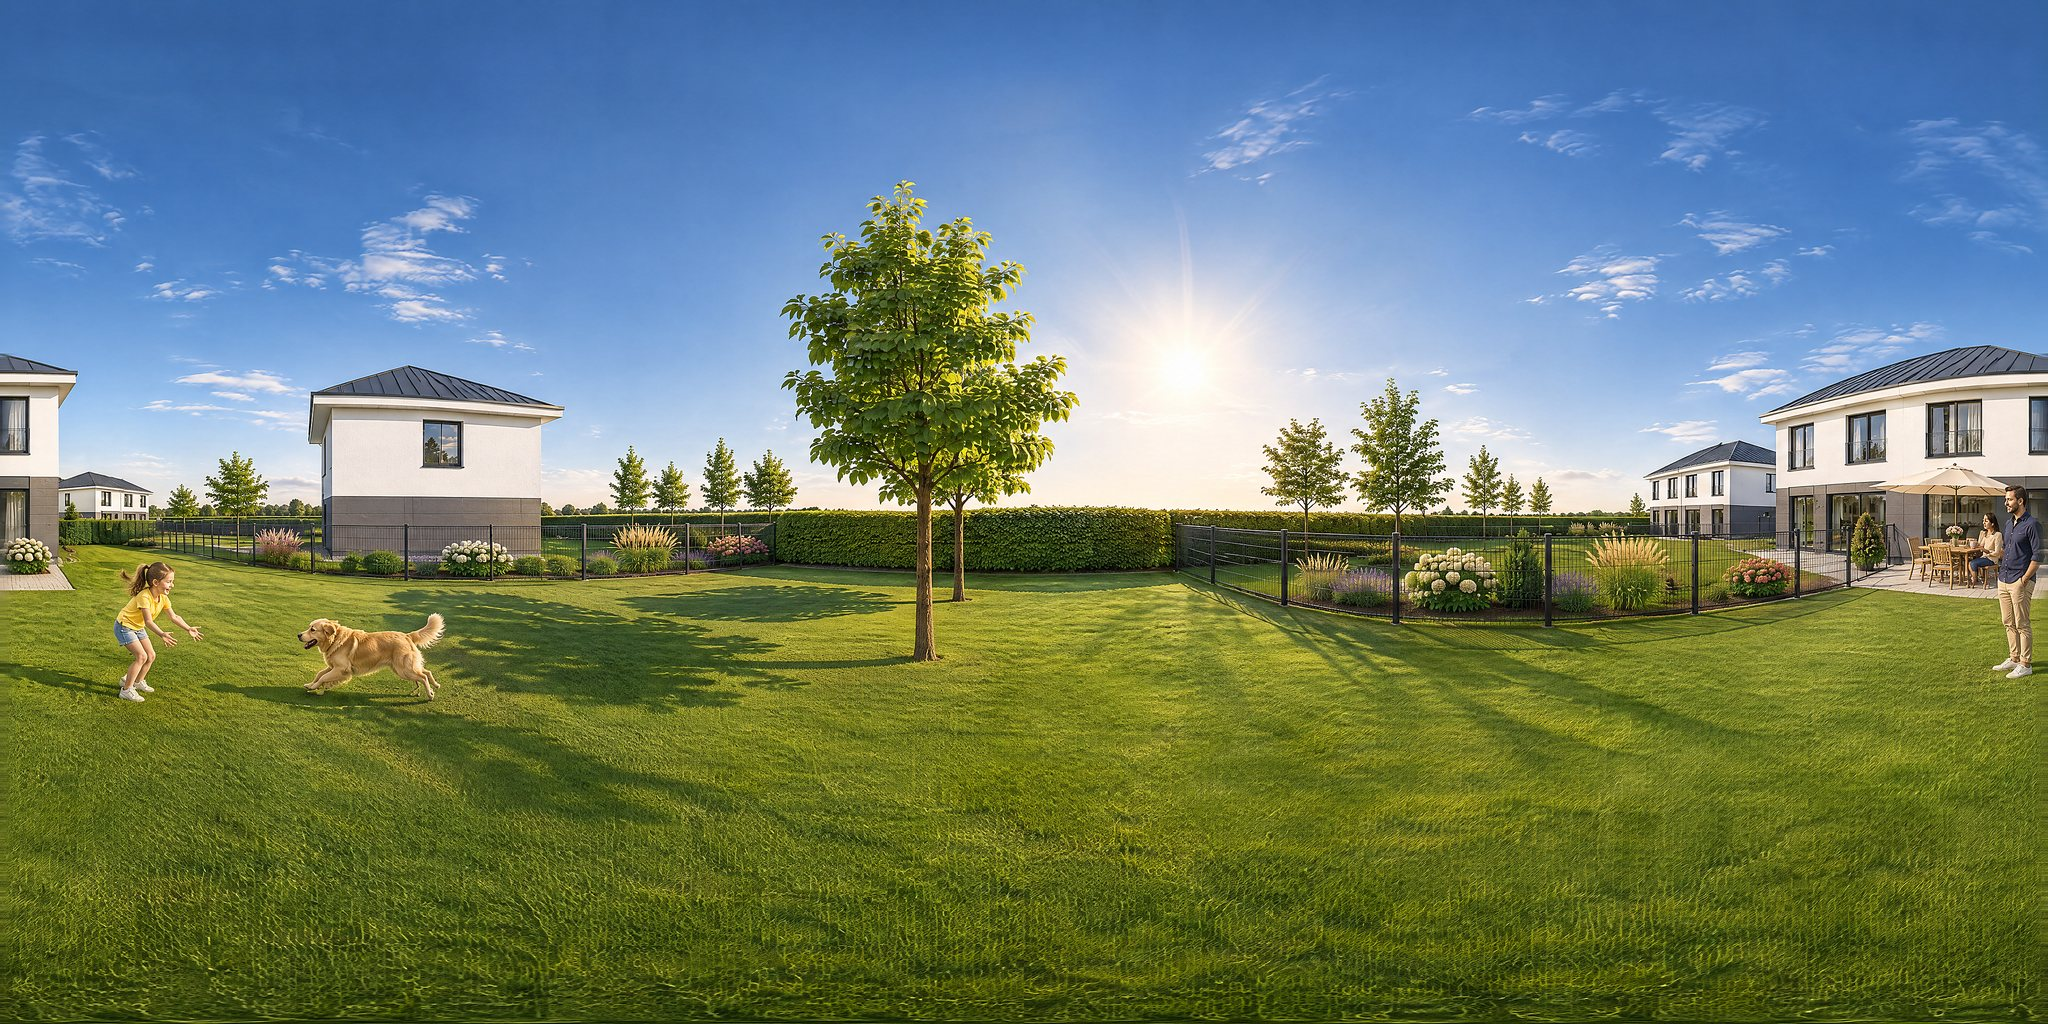
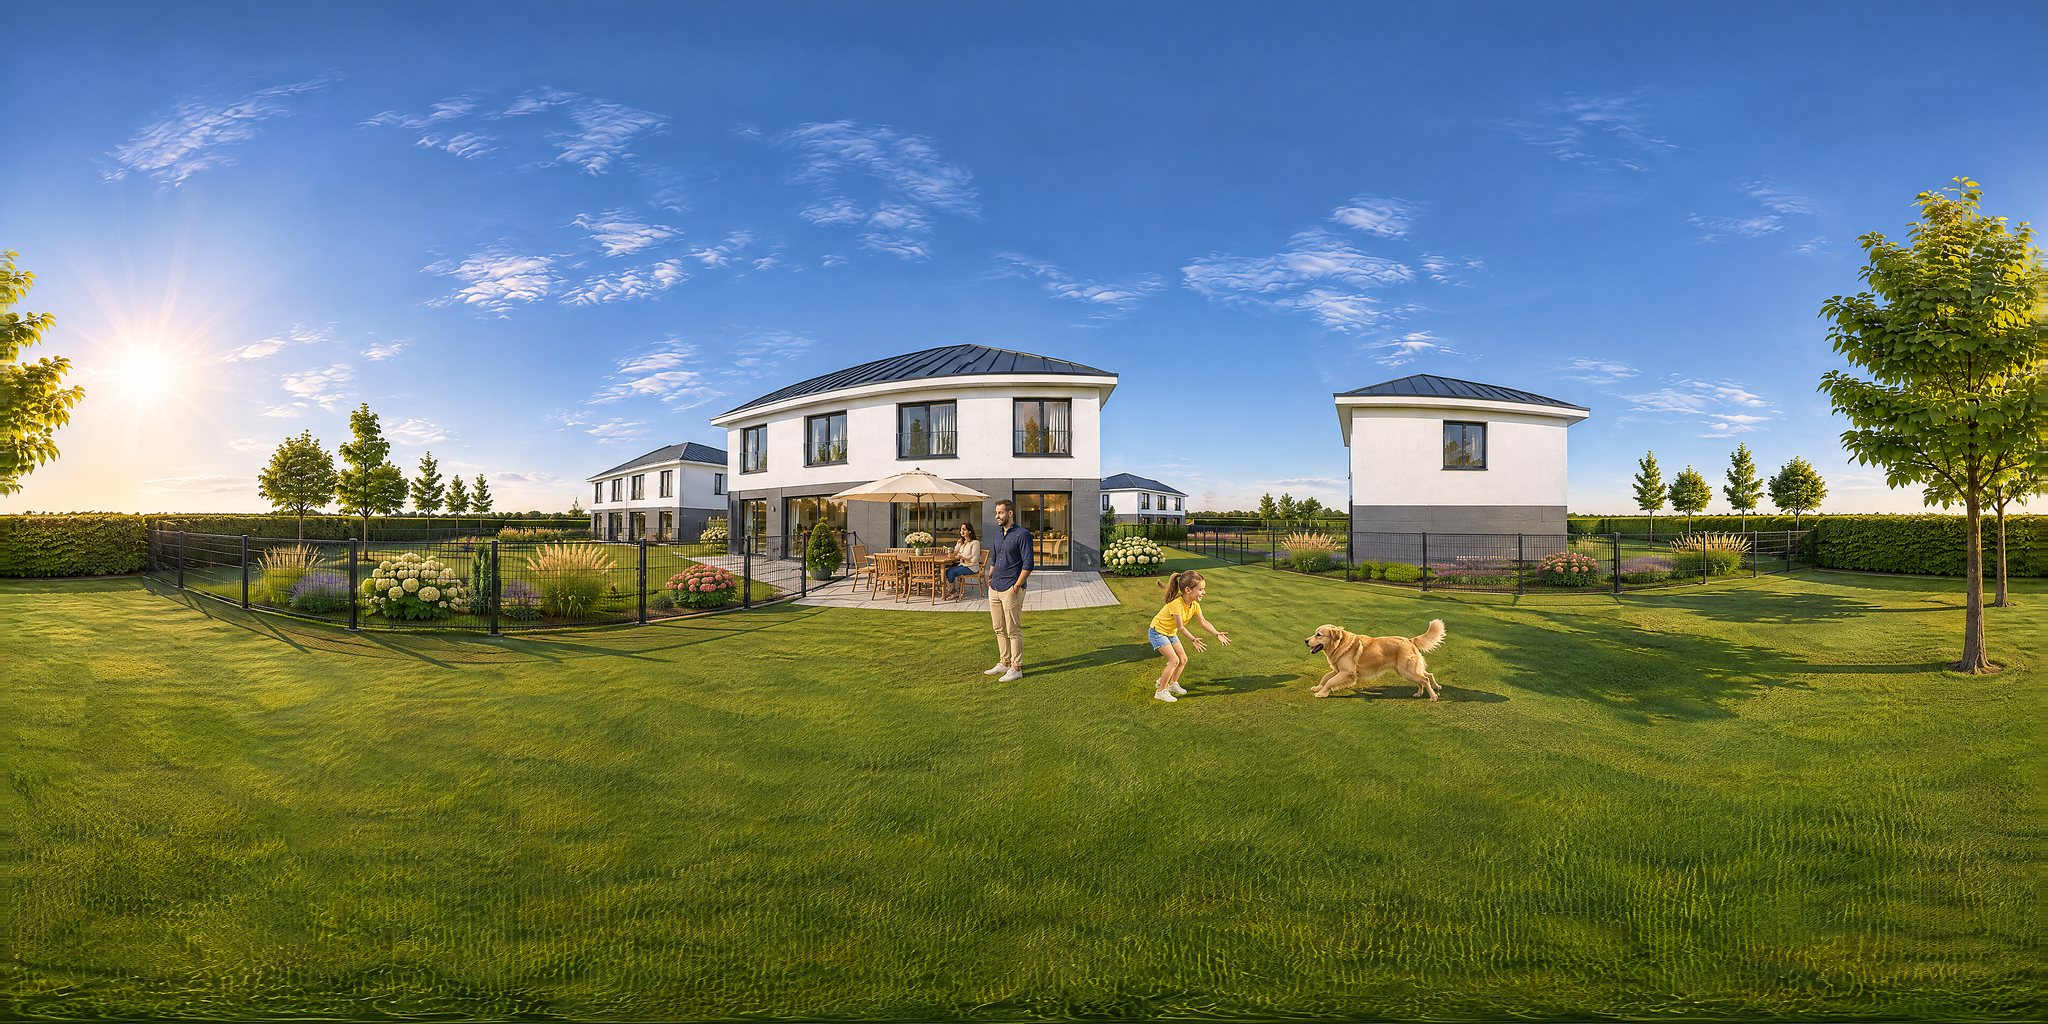
Spacer: panoramy 8K na komputerze, ogród z domem w środku kadru, pełny ekran w telefonie, znaczniki na podłodze, plan chowany

diff --git a/spacer.html b/spacer.html
@@ -55,6 +55,7 @@
       <div class="spacer__narzedzia">
         <button type="button" data-zoom="-10" aria-label="Przybliż">+</button>
         <button type="button" data-zoom="10" aria-label="Oddal">&minus;</button>
+        <button type="button" data-plan aria-pressed="true">Plan</button>
         <button type="button" data-pelny>Pełny ekran</button>
       </div>
       <div class="spacer__plan" id="spacer-plan" aria-label="Plan parteru z punktami spaceru">
@@ -64,10 +65,11 @@
       <p class="spacer__podpowiedz">Przeciągnij, żeby się rozejrzeć</p>
     </div>
     <div class="spacer__pasek">
-      <div class="filtr" role="group" aria-label="Punkt spaceru" id="spacer-punkty"></div>
+      <div class="spacer__lista" role="group" aria-label="Punkt spaceru" id="spacer-punkty"></div>
       <p id="spacer-info" aria-live="polite"></p>
     </div>
     <noscript><div class="wizualizacje"><figure><img src="img/spacer/b-parter-salon-2048.jpg" width="2048" height="1024" alt="Panorama: pokój dzienny, dom typu B" loading="lazy"><figcaption>Pokój dzienny</figcaption></figure><figure><img src="img/spacer/b-parter-jadalnia-kuchnia-2048.jpg" width="2048" height="1024" alt="Panorama: jadalnia i kuchnia, dom typu B" loading="lazy"><figcaption>Jadalnia i kuchnia</figcaption></figure><figure><img src="img/spacer/b-parter-hol-2048.jpg" width="2048" height="1024" alt="Panorama: hol przy schodach, dom typu B" loading="lazy"><figcaption>Hol przy schodach</figcaption></figure><figure><img src="img/spacer/b-ogrod-2048.jpg" width="2048" height="1024" alt="Panorama: ogród, dom typu B" loading="lazy"><figcaption>Ogród</figcaption></figure><figure><img src="img/spacer/b-front-2048.jpg" width="2048" height="1024" alt="Panorama: przed domem, dom typu B" loading="lazy"><figcaption>Przed domem</figcaption></figure></div></noscript>
+    <div class="wizualizacje spacer__zapas" hidden><figure><img src="img/spacer/b-parter-salon-2048.jpg" width="2048" height="1024" alt="Panorama: pokój dzienny, dom typu B" loading="lazy"><figcaption>Pokój dzienny</figcaption></figure><figure><img src="img/spacer/b-parter-jadalnia-kuchnia-2048.jpg" width="2048" height="1024" alt="Panorama: jadalnia i kuchnia, dom typu B" loading="lazy"><figcaption>Jadalnia i kuchnia</figcaption></figure><figure><img src="img/spacer/b-parter-hol-2048.jpg" width="2048" height="1024" alt="Panorama: hol przy schodach, dom typu B" loading="lazy"><figcaption>Hol przy schodach</figcaption></figure><figure><img src="img/spacer/b-ogrod-2048.jpg" width="2048" height="1024" alt="Panorama: ogród, dom typu B" loading="lazy"><figcaption>Ogród</figcaption></figure><figure><img src="img/spacer/b-front-2048.jpg" width="2048" height="1024" alt="Panorama: przed domem, dom typu B" loading="lazy"><figcaption>Przed domem</figcaption></figure></div>
   </div>
 </section>
 
@@ -81,7 +83,7 @@
     <p class="dalej"><a href="typ-b.html">Wszystkie rysunki i domy typu B <span aria-hidden="true">&rarr;</span></a></p>
   </div>
 </section>
-<script>window.SPACER = {"punkty": [{"nazwa": "Pokój dzienny", "x": 235, "y": 70, "start": 150, "do": [1, 3], "opis": "Pokój dzienny przy oknie tarasowym. Stąd wyjście na taras i do ogrodu.", "fakty": [{"x": 440, "y": 300, "z": 0, "t": "Ogrzewanie podłogowe: kabel grzewczy zatopiony w posadzce."}, {"x": 430, "y": 505, "z": 70, "t": "Schody na piętro: 16 stopni. Na piętrze 3 sypialnie i łazienka."}], "u": 0.6178, "v": 0.1227, "obraz": "img/spacer/b-parter-salon-4096.jpg", "maly": "img/spacer/b-parter-salon-2048.jpg", "duzy": ""}, {"nazwa": "Jadalnia i kuchnia", "x": 305, "y": 395, "start": -25, "do": [0, 2, 3], "opis": "Środek parteru: kuchnia z półwyspem (6,89 m²), jadalnia i pokój dzienny ze schodami (28,75 m²).", "fakty": [{"x": 298, "y": -10, "z": 150, "t": "Okno tarasowe 350 × 220 cm, wyjście na taras i do ogrodu."}, {"x": -10, "y": 447, "z": 160, "t": "Okno kuchenne 160 × 130 cm nad blatem."}, {"x": 430, "y": 505, "z": 70, "t": "Schody na piętro: 16 stopni. Na piętrze 3 sypialnie i łazienka."}], "u": 0.6839, "v": 0.4293, "obraz": "img/spacer/b-parter-jadalnia-kuchnia-4096.jpg", "maly": "img/spacer/b-parter-jadalnia-kuchnia-2048.jpg", "duzy": ""}, {"nazwa": "Hol przy schodach", "x": 288, "y": 600, "start": 0, "do": [1, 4], "opis": "Hol między kuchnią a schodami. Za plecami drzwi do przedsionka, WC i pomieszczenia gospodarczego.", "fakty": [{"x": 430, "y": 505, "z": 70, "t": "Schody na piętro: 16 stopni. Na piętrze 3 sypialnie i łazienka."}], "u": 0.6678, "v": 0.6227, "obraz": "img/spacer/b-parter-hol-4096.jpg", "maly": "img/spacer/b-parter-hol-2048.jpg", "duzy": ""}, {"nazwa": "Ogród", "x": 300, "y": -970, "start": 180, "do": [0], "opis": "Ogród za domem, widok na taras i okna pokoju dziennego. Działka jest ogrodzona, około 500 m².", "fakty": [{"x": 300, "y": -200, "z": 20, "t": "Taras przy pokoju dziennym, wyjście przez okno 350 × 220 cm."}], "u": 0.6791, "v": 0.04, "obraz": "img/spacer/b-ogrod-4096.jpg", "maly": "img/spacer/b-ogrod-2048.jpg", "duzy": ""}, {"nazwa": "Przed domem", "x": 300, "y": 2200, "start": 0, "do": [2], "opis": "Wejście i podjazd od strony utwardzonej, oświetlonej drogi dojazdowej.", "fakty": [{"x": 20, "y": 1300, "z": 120, "t": "Garaż w bryle domu: 22,13 m² według tabeli pomieszczeń."}], "u": 0.6791, "v": 0.96, "obraz": "img/spacer/b-front-4096.jpg", "maly": "img/spacer/b-front-2048.jpg", "duzy": ""}]};</script>
+<script>window.SPACER = {"punkty": [{"nazwa": "Pokój dzienny", "x": 235, "y": 70, "start": 150, "do": [1, 3], "opis": "Pokój dzienny przy oknie tarasowym. Stąd wyjście na taras i do ogrodu.", "fakty": [{"x": 440, "y": 300, "z": 0, "t": "Ogrzewanie podłogowe: kabel grzewczy zatopiony w posadzce."}, {"x": 430, "y": 505, "z": 70, "t": "Schody na piętro: 16 stopni. Na piętrze 3 sypialnie i łazienka."}], "u": 0.6178, "v": 0.1227, "obrot": 0, "obraz": "img/spacer/b-parter-salon-4096.jpg", "maly": "img/spacer/b-parter-salon-2048.jpg", "duzy": "img/spacer/b-parter-salon-8192.jpg"}, {"nazwa": "Jadalnia i kuchnia", "x": 305, "y": 395, "start": -25, "do": [0, 2, 3], "opis": "Środek parteru: kuchnia z półwyspem (6,89 m²), jadalnia i pokój dzienny ze schodami (28,75 m²).", "fakty": [{"x": 430, "y": -10, "z": 185, "t": "Okno tarasowe 350 × 220 cm, wyjście na taras i do ogrodu."}, {"x": -10, "y": 447, "z": 160, "t": "Okno kuchenne 160 × 130 cm nad blatem."}, {"x": 430, "y": 505, "z": 70, "t": "Schody na piętro: 16 stopni. Na piętrze 3 sypialnie i łazienka."}], "u": 0.6839, "v": 0.4293, "obrot": 0, "obraz": "img/spacer/b-parter-jadalnia-kuchnia-4096.jpg", "maly": "img/spacer/b-parter-jadalnia-kuchnia-2048.jpg", "duzy": "img/spacer/b-parter-jadalnia-kuchnia-8192.jpg"}, {"nazwa": "Hol przy schodach", "x": 288, "y": 600, "start": 0, "do": [1, 4], "opis": "Hol między kuchnią a schodami. Za plecami drzwi do przedsionka, WC i pomieszczenia gospodarczego.", "fakty": [{"x": 430, "y": 505, "z": 70, "t": "Schody na piętro: 16 stopni. Na piętrze 3 sypialnie i łazienka."}], "u": 0.6678, "v": 0.6227, "obrot": 0, "obraz": "img/spacer/b-parter-hol-4096.jpg", "maly": "img/spacer/b-parter-hol-2048.jpg", "duzy": "img/spacer/b-parter-hol-8192.jpg"}, {"nazwa": "Ogród", "x": 300, "y": -970, "start": 180, "do": [0], "opis": "Ogród za domem, widok na taras i okna pokoju dziennego. Działka jest ogrodzona, około 500 m².", "fakty": [{"x": 560, "y": -200, "z": 20, "t": "Taras przy pokoju dziennym, wyjście przez okno 350 × 220 cm."}], "u": 0.6791, "v": 0.04, "obrot": 180, "obraz": "img/spacer/b-ogrod-4096.jpg", "maly": "img/spacer/b-ogrod-2048.jpg", "duzy": "img/spacer/b-ogrod-8192.jpg"}, {"nazwa": "Przed domem", "x": 300, "y": 2200, "start": 0, "do": [2], "opis": "Wejście i podjazd od strony utwardzonej, oświetlonej drogi dojazdowej.", "fakty": [{"x": 20, "y": 1300, "z": 120, "t": "Garaż w bryle domu: 22,13 m² według tabeli pomieszczeń."}], "u": 0.6791, "v": 0.96, "obrot": 0, "obraz": "img/spacer/b-front-4096.jpg", "maly": "img/spacer/b-front-2048.jpg", "duzy": "img/spacer/b-front-8192.jpg"}]};</script>
 
 <section class="pod-koniec" aria-labelledby="h-koniec">
   <div class="w">

diff --git a/js/spacer.js b/js/spacer.js
@@ -5,7 +5,10 @@
   if (!S || !pole || !cv) return;
   var gl = cv.getContext('webgl', { antialias: false });
   var info = document.getElementById('spacer-info');
-  if (!gl) { info.textContent = 'Ta przeglądarka nie obsługuje podglądu 360°.'; pole.classList.add('spacer--bez'); return; }
+  if (!gl) {                                                  // bez WebGL: zwykłe obrazy z każdego punktu
+    info.textContent = 'Ta przeglądarka nie obsługuje podglądu 360°. Poniżej widok z każdego punktu.'; pole.classList.add('spacer--bez');
+    var z = document.querySelector('.spacer__zapas'); if (z) z.hidden = false; return;
+  }
 
   function shader(typ, kod) { var s = gl.createShader(typ); gl.shaderSource(s, kod); gl.compileShader(s); return s; }
   var pr = gl.createProgram();
@@ -37,7 +40,7 @@
   var znaczniki = document.getElementById('spacer-znaczniki'), lista = document.getElementById('spacer-punkty');
   var plan = document.getElementById('spacer-plan'), stozek = document.getElementById('spacer-stozek');
   var bezRuchu = window.matchMedia('(prefers-reduced-motion: reduce)').matches;
-  var obrazy = {};
+  var obrazy = {}, oszczedza = !!(navigator.connection && navigator.connection.saveData);
   function obraz(n, gotowy) {
     var p = S.punkty[n], im = obrazy[n];
     if (!im) { im = obrazy[n] = new Image(); im.src = maly ? p.maly : p.obraz; }
@@ -49,10 +52,12 @@
   function doostrz(n) {
     var p = S.punkty[n]; if (!moze8k || !p.duzy) return;
     var im = new Image();
-    im.onload = function () { if (akt === n && !przej) { wgraj(biez, im); rysuj(); } };
+    im.onload = function () { if (akt === n && !przej) { wgraj(biez, im, n); rysuj(); } };
     im.src = p.duzy;
   }
-  function wgraj(ktora, im) {
+  var obr = [0, 0];                                           // o ile stopni środek obrazu jest obrócony względem kierunku „w stronę ogrodu”
+  function wgraj(ktora, im, n) {
+    obr[ktora] = (S.punkty[n].obrot || 0) * RAD;
     gl.activeTexture(ktora ? gl.TEXTURE1 : gl.TEXTURE0); gl.bindTexture(gl.TEXTURE_2D, tex[ktora]);
     gl.texImage2D(gl.TEXTURE_2D, 0, gl.RGB, gl.RGB, gl.UNSIGNED_BYTE, im);
   }
@@ -64,11 +69,11 @@
   }
   function rysuj() {
     if (!gotowe) return;
-    var r = rozmiar(), asp = r.width / r.height, tg = Math.tan(fov / 2);
+    var r = rozmiar(), asp = r.width / r.height, kor = Math.max(1, 0.7 / asp), tg = Math.tan(fov / 2) * kor;
     gl.activeTexture(gl.TEXTURE0); gl.bindTexture(gl.TEXTURE_2D, tex[biez]);
     gl.activeTexture(gl.TEXTURE1); gl.bindTexture(gl.TEXTURE_2D, tex[1 - biez]);
-    gl.uniform1f(U.asp, asp); gl.uniform3f(U.a, yaw, pitch, tg);
-    if (przej) { gl.uniform3f(U.b, przej.yaw2, przej.pitch2, Math.tan(przej.fov2 / 2)); gl.uniform1f(U.mieszaj, przej.m); }
+    gl.uniform1f(U.asp, asp); gl.uniform3f(U.a, yaw - obr[biez], pitch, tg);
+    if (przej) { gl.uniform3f(U.b, przej.yaw2 - obr[1 - biez], przej.pitch2, Math.tan(przej.fov2 / 2) * kor); gl.uniform1f(U.mieszaj, przej.m); }
     else gl.uniform1f(U.mieszaj, 0);
     gl.drawArrays(gl.TRIANGLE_STRIP, 0, 4);
     Array.prototype.forEach.call(znaczniki.children, function (z) {
@@ -93,11 +98,11 @@
     S.punkty.forEach(function (q, k) {
       if (k === n || (p.do && p.do.indexOf(k) < 0)) return;
       var d = kierunek(p, q.x, q.y, 55);
-      var b = document.createElement('button'); b.type = 'button'; b.className = 'spacer__przejscie'; b.textContent = q.nazwa;
+      var b = document.createElement('button'); b.type = 'button'; b.className = 'spacer__przejscie'; b.innerHTML = '<span class="spacer__nazwa">' + q.nazwa + '</span><span class="spacer__krag" aria-hidden="true"></span>';
       b.dataset.yaw = d[0]; b.dataset.pitch = Math.max(d[1], -0.5);
       b.addEventListener('click', function () { pokaz(k, d[0]); });
       znaczniki.appendChild(b);
-      obraz(k);                                               // sąsiednie panoramy ładują się z wyprzedzeniem
+      if (!oszczedza) setTimeout(function () { if (akt === n) obraz(k); }, 1500);   // sąsiednie panoramy doczytują się z wyprzedzeniem
     });
     (p.fakty || []).forEach(function (f) {
       var d = kierunek(p, f.x, f.y, f.z);
@@ -123,9 +128,9 @@
       pole.classList.remove('spacer--czeka');
       var cel = wStrone == null ? p.start * RAD : wStrone;
       if (akt < 0 || bezRuchu) {
-        wgraj(biez, im); gotowe = true; yaw = cel; pitch = 0; fov = FOV0; vy = vp = 0; opisz(n); rysuj(); return;
+        wgraj(biez, im, n); gotowe = true; yaw = cel; pitch = 0; fov = FOV0; vy = vp = 0; opisz(n); rysuj(); return;
       }
-      wgraj(1 - biez, im);
+      wgraj(1 - biez, im, n);
       znaczniki.innerHTML = ''; vy = vp = 0;
       przej = { t0: 0, n: n, yaw0: yaw, pitch0: pitch, fov0: fov, cel: wStrone == null ? null : blisko(wStrone, yaw),
                 yaw2: wStrone == null ? cel : blisko(wStrone, yaw), pitch2: 0, fov2: FOV0, m: 0, idzie: wStrone != null };
@@ -187,6 +192,10 @@
   Array.prototype.forEach.call(pole.querySelectorAll('[data-zoom]'), function (b) {
     b.addEventListener('click', function () { if (przej) return; fov += +b.dataset.zoom * RAD; ogranicz(); rysuj(); dotkniete(); });
   });
+  var pp = pole.querySelector('[data-plan]');
+  function planWidac(tak) { pole.classList.toggle('spacer--bezplanu', !tak); if (pp) pp.setAttribute('aria-pressed', tak); }
+  if (pp) pp.addEventListener('click', function () { planWidac(pole.classList.contains('spacer--bezplanu')); });
+  planWidac(!window.matchMedia('(max-width: 760px)').matches);
   var pe = pole.querySelector('[data-pelny]');
   function pelny(tak) { pole.classList.toggle('spacer--pelny', tak); document.documentElement.classList.toggle('spacer-otwarty', tak); if (pe) pe.textContent = tak ? 'Zamknij' : 'Pełny ekran'; setTimeout(rysuj, 60); }
   if (pe) pe.addEventListener('click', function () {

diff --git a/css/podstrony.css b/css/podstrony.css
@@ -166,3 +166,30 @@
   .spacer__pasek { display: block; }
   .spacer__pasek p { margin-top: 12px; }
 }
+.spacer :focus-visible { outline: 2px solid #fff; outline-offset: 2px; }
+.spacer__przejscie:focus-visible, .spacer__plan-punkt:focus-visible { outline-color: var(--kobalt); }
+.spacer__zapas[hidden] { display: none; }
+
+/* Spacer, poprawki 15.11 (2): znacznik przejścia jako krąg na podłodze z podpisem, lista punktów jako tekst, plan chowany, pełny ekran w telefonie */
+.spacer__przejscie { background: none; box-shadow: none; padding: 0; min-height: 0; border-radius: 0; flex-direction: column; gap: 10px; transform: translate(-50%, -100%); color: #fff; }
+.spacer__przejscie::before { content: none; }
+.spacer__nazwa { font: 600 16px/1.1 var(--sans); letter-spacing: -.01em; white-space: nowrap; text-shadow: 0 1px 2px rgba(12, 23, 48, .9), 0 0 14px rgba(12, 23, 48, .75), 0 0 34px rgba(12, 23, 48, .55); }
+.spacer__krag { width: 58px; height: 26px; border-radius: 50%; box-shadow: inset 0 0 0 2.5px #fff, 0 2px 10px rgba(12, 23, 48, .45); background: radial-gradient(ellipse at center, #fff 0 16%, rgba(255, 255, 255, .22) 17% 100%); }
+.spacer__lista { display: flex; flex-wrap: wrap; gap: 4px 30px; }
+.spacer__lista button { border: 0; background: none; padding: 0; min-height: 44px; font: 600 18px/1 var(--sans); letter-spacing: -.02em; color: var(--tekst-2); cursor: pointer; display: inline-flex; align-items: center; gap: 10px; white-space: nowrap; }
+.spacer__lista button::before { content: ""; width: 8px; height: 8px; border-radius: 50%; background: var(--tlo-2); }
+.spacer__lista button[aria-pressed="true"] { color: var(--atrament); }
+.spacer__lista button[aria-pressed="true"]::before { background: var(--kobalt); box-shadow: 0 0 0 4px var(--kobalt-tlo); }
+.spacer--bezplanu .spacer__plan { display: none; }
+.spacer__narzedzia button[data-plan][aria-pressed="true"] { background: #fff; color: var(--atrament); }
+.spacer.spacer--pelny { position: fixed; inset: 0; width: 100vw; height: 100vh; height: 100dvh; margin: 0; border-radius: 0; aspect-ratio: auto; z-index: 60; }
+.spacer--pelny .spacer__narzedzia { top: calc(14px + env(safe-area-inset-top)); right: calc(14px + env(safe-area-inset-right)); }
+.spacer--pelny .spacer__plan { bottom: calc(14px + env(safe-area-inset-bottom)); left: calc(14px + env(safe-area-inset-left)); }
+.spacer-otwarty .naglowek, .spacer-otwarty .dzwon { display: none; }
+.spacer-otwarty, .spacer-otwarty body { overflow: hidden; }
+@media (max-width: 760px) {
+  #spacer-punkty { gap: 0 24px; }
+  .spacer__lista button { font-size: 17px; }
+  .spacer__nazwa { font-size: 15px; }
+  .spacer__krag { width: 50px; height: 22px; }
+}
